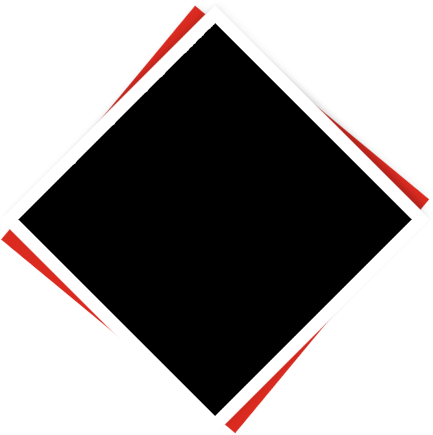
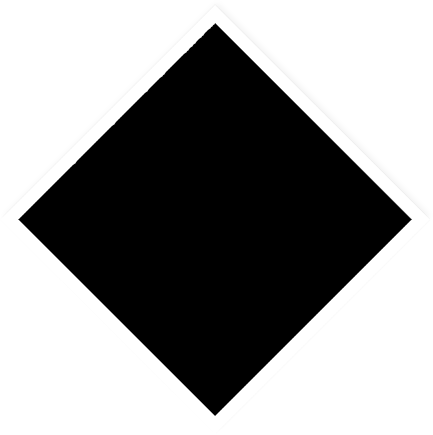
add

diff --git a/src/sass/develop_scss/develop_5.scss b/src/sass/develop_scss/develop_5.scss
@@ -91,13 +91,21 @@
     .fifth-block{overflow: hidden;
         .magic{background-image: url(../images/parlbg.png); background-position: right top; background-repeat: no-repeat;width: 100%;height: 100%; position: absolute; top:0; right:0; margin-top: 180px;}
         .fifth-wrap{background-image: url(../images/ninethbg.jpg); background-position: right top; background-repeat: no-repeat; background-color: #000; position: relative;
-            .content{position: relative;    padding-top: 68px;     padding-bottom: 63px;}
+            .content{position: relative;    padding-top: 68px;     padding-bottom: 63px;
+                
+            }
             .title{font:400 80px/80px 'Room'; color: #fff; width: 100%; text-align: center;}
-            .price{width: 433px;height: 435px; background-image: url(../images/romb.png); background-position:center top; background-repeat: no-repeat; text-align: center; position: absolute; top:calc(50% - 237px); left:calc(50% - 216px); z-index: 20; padding-top: 69px;
-                p{font:700 39px/61px 'Solomon'; color:#fff;
+            .price{width: 433px;height: 435px; position: absolute; top:calc(50% - 237px); left:calc(50% - 216px); z-index: 20; 
+                .conver-texter{position: relative; z-index: 21; width: 433px;height: 435px; background-image: url(../images/romb.png); background-position:center top; background-repeat: no-repeat; text-align: center;padding-top: 69px; }
+                p{font:700 39px/61px 'Solomon'; color:#fff; 
                     &:nth-child(2){font:700 148px/122px 'Solomon'; color:#ffe400;}
                     &:nth-child(3){font:700 47px/44px 'Solomon'; color:#ffe400;}
                 }
+                &:before{content: ''; position: absolute; width: 305px; height: 305px; background-color: #d82a20; z-index: -1; transform: rotate(40deg);top:calc(50% - 150px); left:calc(50% - 154px);z-index: 20; transition: all 0.3s;}
+                &:hover{
+                    &:before{transform: rotate(45deg);}
+                }
+                
             }
             .item-list{    padding-top: 120px; padding-bottom: 100px;
                 .mobile{display: none;}
@@ -178,26 +186,31 @@
     }
 /*END six - block*/
 /*nineth-block*/
-    .nineth-block{background-image: url(../images/ninebg.jpg); background-position: right top; background-repeat: no-repeat;
-        .title{background-color: #db2a20; color: #fff;font:700 73px/99px 'Room'; text-align: center;height: 112px;}
+    .nineth-block{background-image: url(../images/ninebg.jpg); background-position: right top; background-repeat: repeat-y;
+        .title{background-color: #db2a20; color: #fff;font:700 73px 'Room'; text-align: center;height: 112px; display: flex; align-items: center; justify-content: center;}
         .mbox{max-width: 1245px;}
         .descktop{padding: 53px 0;
-            .row:nth-child(2){padding-top: 17px;}
+            .row:nth-child(2){padding-top: 17px; transform: translateX(-200%); transition: all 0.3s;
+                &.animated{transform: translateX(0);}
+            }
             .row:nth-child(3){
-                .circle{    margin-top: 38px;}
+                .circle{ margin-top: 38px;}
                 .txt{
                      &:nth-child(2){padding: 32px 54px 0; max-width: 435px;}
                      &:nth-child(4){padding: 38px 0 0; max-width: 458px;}
                 }
             }
-            .circle{float:left; font:400 80px/80px 'Solomon'; color:#000;width: 98px;height: 98px; border-radius: 50%; background-color: #ffe400; text-align: center; padding-top: 12px; position: relative; margin-top: 49px;
-                &:before{content:''; display: block; position: absolute; background-position: center; background-repeat: no-repeat;width: 358px;height: 57px;}
-                &.one:before{background-image: url(../images/arr01.png);height: 58px;left: 37px;top: 75px;}
-                &.two:before{background-image: url(../images/arr02.png);top: -34px;    left: 13px;}
-                &.four:before{background-image: url(../images/arr03.png);width: 464px;    left: 75px;    top: -27px;}
+            .circle{float:left;  position: relative; margin-top: 49px;  opacity: 0; transition: all 0.3s;
+                p{font:400 80px/80px 'Solomon'; color:#000;width: 98px;height: 98px; border-radius: 50%; background-color: #ffe400; text-align: center; padding-top: 12px; position: relative; z-index: 25;}
+                &.animated{opacity: 1;}
+                &:before{content:''; display: block; position: absolute; background-position: center; background-repeat: no-repeat;width: 358px;height: 57px;     z-index: -1;}
+                &.one:before{background-image: url(../images/arr01.png);height: 58px;left: 37px;top: 75px;z-index: -1;}
+                &.two:before{background-image: url(../images/arr02.png);top: -34px;   z-index: -1; left: 13px;}
+                &.four:before{background-image: url(../images/arr03.png);width: 464px; z-index: -1;   left: 75px;    top: -27px;}
                 &:nth-child(1){    margin-left:27px; }
             }
-            .txt{float:left; max-width: 300px; text-align: center;
+            .txt{float:left; max-width: 300px; text-align: center;opacity: 0; transition: all 0.3s;
+                &.animated{opacity: 1;}
                 p{font:400 19px/23px 'Solomon'; color:#000;
                     &:first-child{font:600 25px/29px 'Solomon'; color:#db2a20; padding-bottom: 7px;}
                 }
@@ -213,7 +226,19 @@
                     &:after{bottom: 4px;right: 4px;}
                 }
             }
+            &.animated{
+                 .circle.animated{
+                    p{animation: shest2 1s ease-out;z-index: 10;}
+                    &:before{z-index: -2;}
+                 }
+            }
         }
         .mobile{display: none;}
     }
+    
+@keyframes shest2 { 
+    0%{ background-color: #db2a20; } 
+    100% { background-color: #ffe400; }
+}
+
 /*END nineth-block*/

diff --git a/src/partials/nineth-block.html b/src/partials/nineth-block.html
@@ -2,32 +2,32 @@
     <div class="title">
         <h2>Как проходят тренировки</h2>
     </div>
-    <div class="mbox">
-        <div class="descktop">
+    <div class="mbox animate-section">
+        <div class="descktop animate-it">
             <div class="row cfix">
-                <div class="circle one">
+                <div class="circle one animate-delay">
                     <p>1</p>
                 </div>
-                <div class="txt">
+                <div class="txt animate-delay">
                     <p>Приветствие, построение</p>
                     <p> учеников по уровню подготовки.</p>
                 </div>
-                <div class="circle two">
+                <div class="circle two animate-delay">
                     <p>2</p>
                 </div>
-                <div class="txt">
+                <div class="txt animate-delay">
                     <p>Разминка </p>
                     <p>(групповая или в парах).  </p>
                 </div>
-                <div class="circle">
+                <div class="circle three animate-delay">
                     <p>3</p>
                 </div>
-                <div class="txt">
+                <div class="txt animate-delay">
                     <p>Основная часть.</p>
                     <p>Может быть различной (отработка связок, обучение технике – ката, подготовка к соревнованиям, борцовская техника, набивка, растяжка, работа с грушей, подготовка к встрече уличных хулиганов, работа с оружием, моральная подготовка и т.д.)  </p>
                 </div>
             </div>
-            <div class="row cfix">
+            <div class="row cfix animate-delay">
                 <div class="img"><img src="images/karakatist.png" alt=""></div>
                 <div class="strelka">
                     1.5 часа
@@ -35,17 +35,17 @@
                 </div>
             </div>
             <div class="row cfix">
-                <div class="circle four">
+                <div class="circle four animate-delay">
                     <p>4</p>
                 </div>
-                <div class="txt">
+                <div class="txt animate-delay">
                     <p>Заминка</p>
                     <p>(канат, упражнения на силу, выносливость, отработка в связке с партнером).</p>
                 </div>
-                <div class="circle">
+                <div class="circle five animate-delay">
                     <p>5</p>
                 </div>
-                <div class="txt">
+                <div class="txt animate-delay">
                     <p>Построение, </p>
                     <p>обсуждение моральных аспектов или текущих вопросов, короткая медитация и прощание.</p>
                 </div>
@@ -53,7 +53,43 @@
 
         </div>
         <div class="mobile">
-
+            <div class="convert">
+                <div class="conteiner">
+                    <div class="item">
+                        <div class="po">1</div>
+                        <div class="de">Приветствие, построение</div>
+                        <div class="ir">учеников по уровню подготовки.</div>
+                    </div>
+                    <div class="item">
+                        <div class="po">2</div>
+                        <div class="de"> Разминка    </div>
+                        <div class="ir">(групповая или в парах).</div>
+                    </div>
+                    <div class="item">
+                        <div class="po">3</div>
+                        <div class="de">Основная часть.</div>
+                        <div class="ir">Может быть различной отработка связок, обучение технике – ката, подготовка к соревнованиям, борцовская техника, набивка, растяжка, работа с грушей, подготовка к встрече уличных хулиганов, работа с оружием, моральная подготовка и т.д.)  </div>
+                    </div>
+                    <div class="item">
+                        <div class="ghnt">
+                            <img src="images/ghnt.png" alt="">
+                        </div>
+                        <div class="wert"> <!-- wert.png -->
+                            <p>1.5 часа</p>
+                        </div>
+                    </div>
+                    <div class="item">
+                        <div class="po">4</div>
+                        <div class="de">Заминка</div>
+                        <div class="ir">(канат, упражнения на силу, выносливость, отработка в связке с партнером). </div>
+                    </div>
+                    <div class="item">
+                        <div class="po">5</div>
+                        <div class="de">Построение</div>
+                        <div class="ir">обсуждение моральных аспектов или текущих вопросов, короткая медитация и прощание. </div>
+                    </div>
+                </div>
+            </div>
         </div>
     </div>
 

diff --git a/src/sass/adaptation_scss/adaptation_develop_5.scss b/src/sass/adaptation_scss/adaptation_develop_5.scss
@@ -137,11 +137,14 @@
             .fifth-wrap{
                 .magic{    background-position: 78% top;}
                 .content{padding-top: 25px;     padding-bottom: 40px;}
-                .price{position: relative; height: 312px;width: 312px; background-size: cover;     left: calc(50% - 156px);
+                .price{position: relative;  height: 312px;width: 312px;    left: calc(50% - 156px);
+                    .conver-texter{height: 312px;width: 312px; background-size: cover;}
                     p{font:700 27.76px/32px 'Solomon';
                         &:nth-child(2){font:700 105.36px/80px 'Solomon'; }
                         &:nth-child(3){font:700 33.46px/36px 'Solomon';}
                     }
+                    &:before{ width: 220px; height: 220px; z-index: -1; transform: rotate(40deg);top:calc(50% - 109px); left: calc(50% - 111px);z-index: 20; transition: all 0.3s;}
+
                 }
                 .item-list{       padding-top: 34px;     padding-bottom: 29px;
                     .mobile{display: block;}
@@ -218,9 +221,27 @@
 /*nineth-block*/
     @media screen and (max-width: 1200px){
         .nineth-block{
+            .title{ height: auto; min-height: 125px; font-size: 44px; line-height: 1; }
             .descktop{display: none;}
-            .mobile{display:block;}
+            .mobile{display:block;
+                .convert{
+                    .conteiner{ max-width: 650px; margin: 0 auto; padding-bottom: 10px;
+                        .item{ padding: 15px 10px;
+                            .po{ width: 70px; height: 70px; margin: 0 auto; display: flex; align-items: center; justify-content: center; border-radius: 50%; background-color: #ffe400; font-size: 43px;  font-family: "Solomon", sans-serif; color: rgb(0, 0, 0);}
+                            .de{font-size: 22px; font-family: "Solomon"; color: rgb(219, 42, 32);   font-weight: 600;   line-height: 1.2; text-align: center; padding-top: 5px; padding-bottom: 10px;}
+                            .ir{font-size: 22px; font-family: "Solomon"; color: black;   font-weight: 400;   line-height: 1.2; text-align: center;}
+                            .ghnt{ text-align: center;
+                                img{}
+                            }
+                            .wert{ height: 100px; background-image: url(../images/wert.png);margin: 0 -20px;background-repeat: no-repeat; background-position: center center; display: flex; align-items: center; justify-content: center;
+                                p{font-size: 44px; font-family: "Solomon";  color: rgb(205, 31, 47);  line-height: 1.2;}                                
+                            }
+                        }
+                    }
+                }
+            }
         }
 
     }
 /*END nineth-block*/
+

diff --git a/src/partials/fifth-block.html b/src/partials/fifth-block.html
@@ -7,10 +7,12 @@
                     <h2>Стоимость абонемента</h2>
                 </div>
                 <div class="price">
-                    <p>Всего</p>
-                    <p>450</p>
-                    <p>тыс.руб.</p>
-                    <p>месяц!</p>
+                    <div class="conver-texter">
+                        <p>Всего</p>
+                        <p>450</p>
+                        <p>тыс.руб.</p>
+                        <p>месяц!</p>
+                    </div>                    
                 </div>
                 <div class="item-list">
                     <ul class="descktop">

diff --git a/src/js/partials/basic_scripts.js b/src/js/partials/basic_scripts.js
@@ -61,7 +61,7 @@ function animationBlock(item){
                  if(itemSect.find('.animate-delay').length == point){
                      clearInterval(timer);
                  }
-              },200);
+              },1000);
 
 
            }
